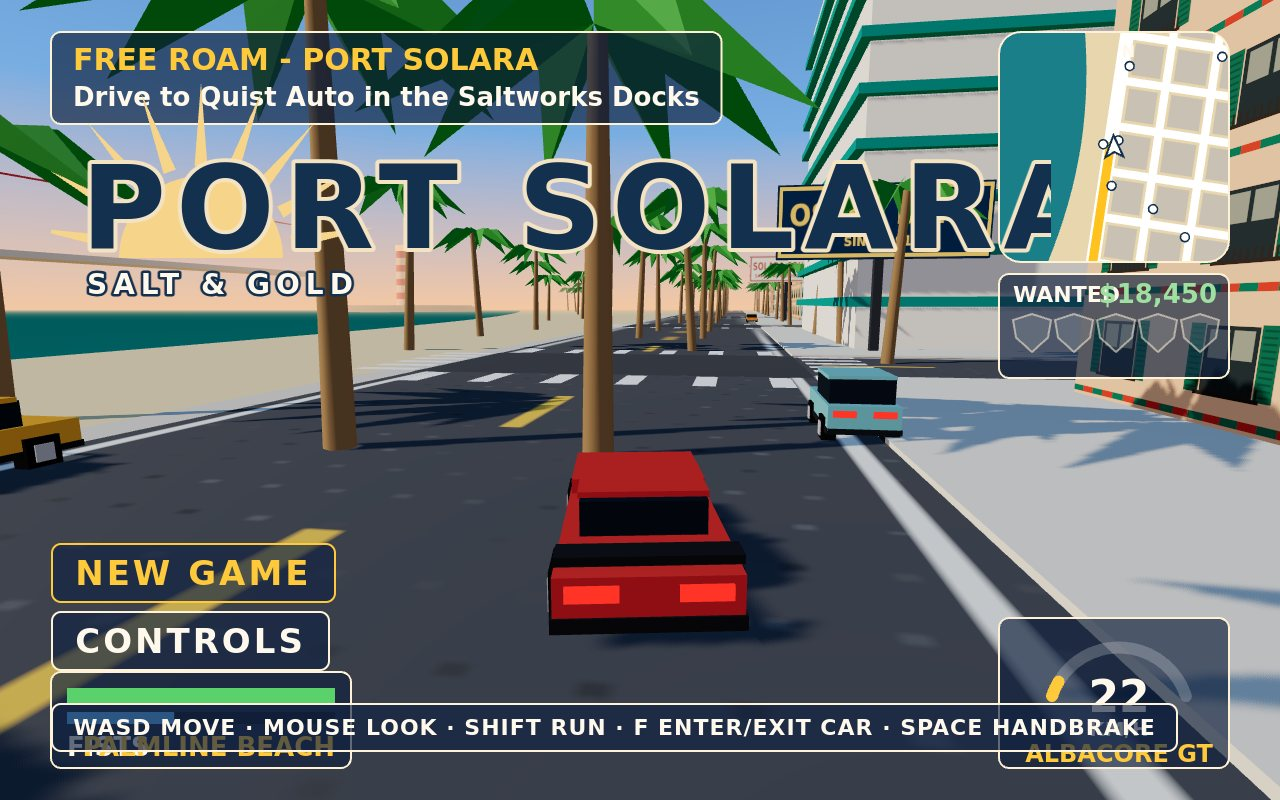
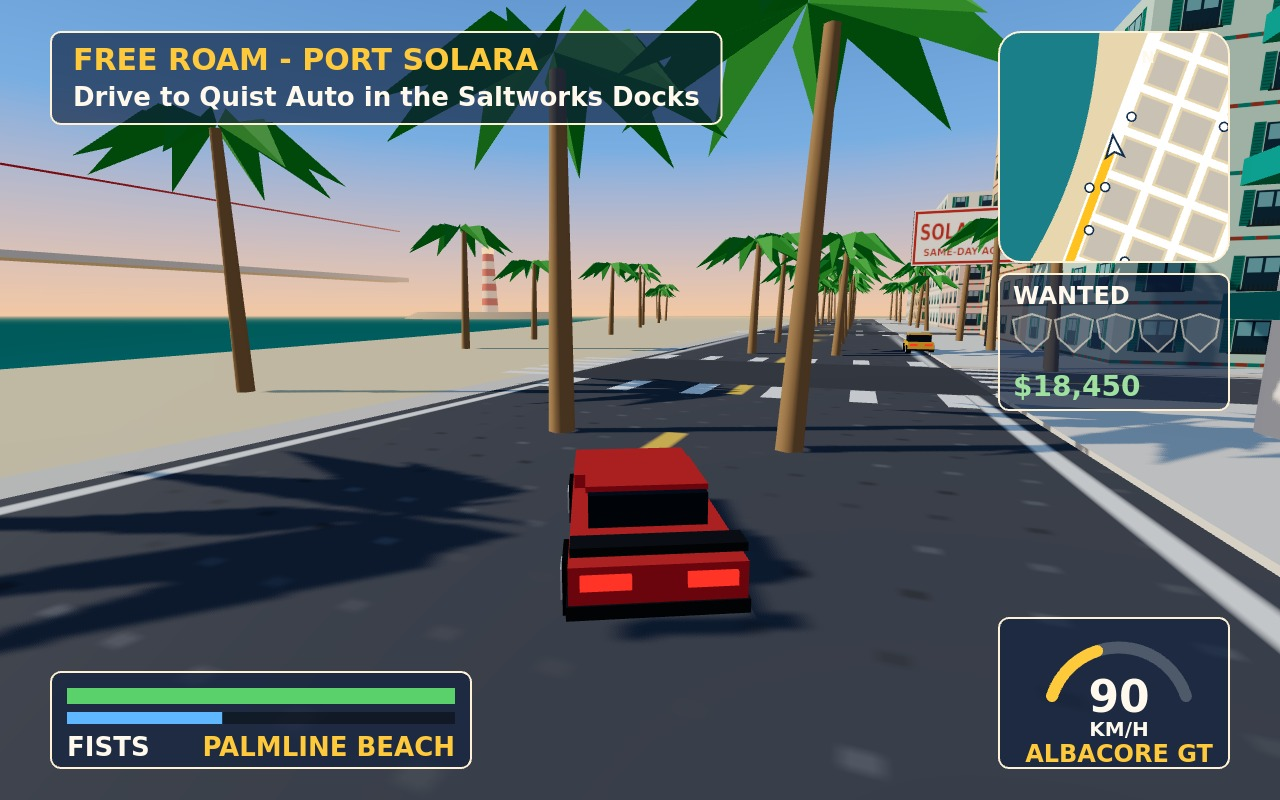
Tools, shots 1/2/4, sky fix, HUD layout fixes, notes

diff --git a/game/src/world/sunlight-and-sea.js b/game/src/world/sunlight-and-sea.js
@@ -76,12 +76,12 @@ export function createSunSoakedLighting(game) {
   return {
     sun, sunDir, sea,
     // Keeps the shadow frustum, the sky and the sun disc centred on the focus point.
-    follow(focus) {
+    follow(focus, eye = focus) {
       sun.position.set(focus.x + sunDir.x * 140, sunDir.y * 140, focus.z + sunDir.z * 140);
       sun.target.position.set(focus.x, 0, focus.z);
-      sky.position.set(focus.x, 0, focus.z);
-      sunDisc.position.set(focus.x + sunDir.x * 430, sunDir.y * 430, focus.z + sunDir.z * 430);
-      sunDisc.lookAt(focus.x, 0, focus.z);
+      sky.position.set(eye.x, 0, eye.z);
+      sunDisc.position.set(eye.x + sunDir.x * 430, sunDir.y * 430, eye.z + sunDir.z * 430);
+      sunDisc.lookAt(eye.x, 0, eye.z);
     },
   };
 }

diff --git a/game/src/main.js b/game/src/main.js
@@ -105,10 +105,10 @@ export function bootPortSolara() {
       const a = game.time * 0.04;
       camera.position.set(-150 + Math.cos(a) * 150, 62, -40 + Math.sin(a) * 150);
       camera.lookAt(-60, 18, -90);
-      game.light.follow({ x: -120, z: -60 });
+      game.light.follow({ x: -120, z: -60 }, camera.position);
     } else {
       game.chase.update(0, game.focus, game.collide);
-      game.light.follow(game.focus);
+      game.light.follow(game.focus, camera.position);
     }
     renderer.render(scene, camera);
     if (game.mode === 'play') {

diff --git a/NOTES.md b/NOTES.md
@@ -1,7 +1,53 @@
 # PORT SOLARA build notes
 
-## Status
-- M1 City slice: in progress (plumbing done).
+## Done (M1 City slice)
+- Plumbing: kit starter replaced; three.js (MIT) vendored in game/vendor/three; index.html with one
+  import map, one module script, styles/hud.css and the ids city-view, hud-overlay, title-screen,
+  pause-map, mission-briefing, save-slots; main.ts clears its output copies so runs are byte-identical.
+- World: crescent bay opening west, street grid (9 avenues x 10 ruas, 20 m Palmline Boulevard with a
+  double median of palms), all five districts (Palmline Beach, Coral Heights, Old Mercado, Saltworks
+  Docks, Lantern Point), landmarks (Sundial Tower, Hotel Meridiana, Mercado square + Clock Arch,
+  coral-red cranes, salt pyramids, Quist Auto, lighthouse, Gull Bridge), canvas facades tiled per
+  instance, 10 sign textures with our brands. Late-afternoon sun (~28 degrees), hemisphere fill, ACES,
+  fog 140-420 m, sky dome, glinting sea.
+- Wren on foot (walk/run, capsule vs building boxes via the spatial hash, walk cycle).
+- Chase camera: on-foot spring arm with wall pull-in and mouse look (pointer lock); car mode 8 m back,
+  3.5 m up, heading lag, speed FOV, impact shake.
+- Cars: bicycle model with speed-narrowed steering, lateral grip blend (handbrake drifts), wall
+  push-out with bounce and damage. Albacore GT + 9 parked Pipits/Promenades. F enters/exits.
+- HUD frame (navy glass, warm-white outline, sizes per brief section 2): objective banner (free roam,
+  route to Quist Auto), rotating rounded minimap with gold GPS grid route and car blips, WANTED with
+  5 shield pips (all unlit in M1), cash, health/armour/weapon/district, speed arc + car name, prompt.
+- Title: canvas wordmark (navy caps, sand outline, gold sun stamp, half sun with 9 rays), NEW GAME,
+  CONTROLS, controls strip, drone orbit of the live city.
+- Dev: src/dev/screenshot-scenes.js and test-hooks.js, loaded by literal dynamic import only with
+  ?shot= / ?test=.
+- Tools: selftest.mjs (boot, walk, drive, perf, clean console), shoot.mjs, judge-sheet.mjs,
+  outline.mjs, check-originality.mjs.
 
-## Next
-- World, player and car, HUD and title, dev modules and tools.
+## Self-test (SwiftShader, 1280x800)
+- boot PASS (city build ~41 ms, 10 cars), walk PASS (9.3 m in 3 s, never inside a building),
+  drive PASS (35 m/s after 4 s; wall hit leaves 75 health, no pass-through), perf PASS
+  (146 draw calls, ~32k triangles, median render 1.9 ms with gl.finish), console clean.
+- Originality: PASS (0 hits).
+
+## Shots
+- 1-chase.jpg (~187 KiB): Albacore at 90 km/h up Palmline Boulevard, full HUD, sea + lighthouse. No
+  police/traffic/peds yet (M2/M3). Sundial Tower is hidden behind the hotel row from this angle.
+- 2-street.jpg (~165 KiB): Wren on foot in the Old Mercado square, Clock Arch, Mercado Central sign,
+  parked Pipit. Not yet over-the-shoulder aiming or combat (M4).
+- 4-title.jpg (~188 KiB): wordmark over Coral Heights and the Sundial Tower. No CONTINUE yet (M5).
+- 3-map.jpg: not taken (M5).
+- Dossier: ~795 KiB, byte-identical on two runs.
+
+## Bugs / debts
+- Draw calls (146) are close to the 150 target: merge sign panels or instance car bodies in M2.
+- Car-to-car collision is not in yet; parked cars can be driven through.
+- Market stalls read as brown slabs; give them awnings with stripes.
+- One 256 canvas per facade archetype instead of a single 1024 atlas.
+- Palmline Boulevard runs straight along the beach, not diagonal.
+- Under `ulimit -v 3000000` Node cannot start its TypeScript wasm, so main.ts runs without it.
+
+## Next (M2 Traffic and theft)
+- Road graph from road-network.js, lights, traffic drivers, pedestrians, carjacking, Saltrunner,
+  Dockhand, Citrine Cab, chase-camera feel, engine/tyre audio, skids and smoke.
